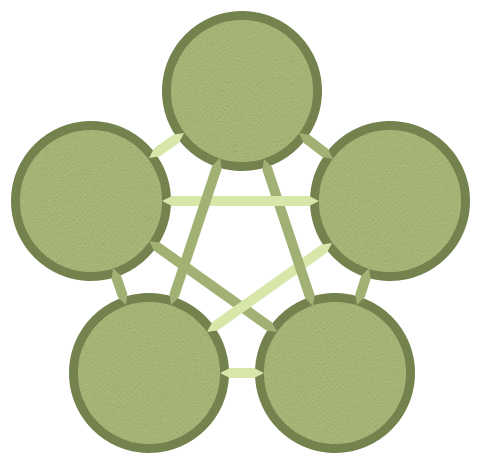
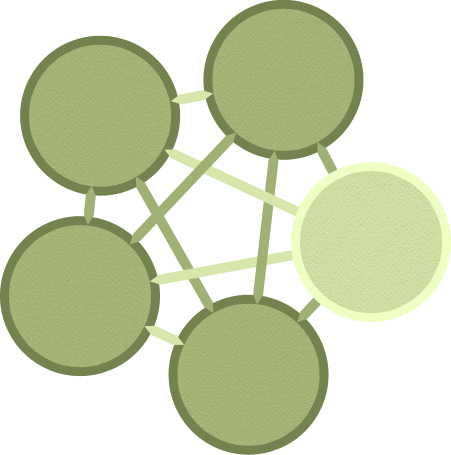
added changes of "star 15 degrees rotate",  added animation of homepage up to step 14

diff --git a/wp-content/themes/nebel.tv/style.css b/wp-content/themes/nebel.tv/style.css
@@ -3319,17 +3319,40 @@ footer.entry-meta {
 }
 
 .homepage-figure {
-    background: url('images/homepage-figure.png') no-repeat scroll -10px top;
+    /*background: url('images/homepage-figure.png') no-repeat scroll left top;*/
     position: relative;
     float: left;
     width: 481px;
     height: 464px;
 }
+.phase {
+    position: absolute;
+    left: 0;
+    top: 0;
+    height: 100%;
+    width: 100%;
+}
+
+.homepage-figure .phase-1 {
+    background: url('images/homepage-figure1.png') no-repeat scroll left top;
+}
+.homepage-figure .phase-2 {
+    background: url('images/homepage-figure2.png') no-repeat scroll left top;
+}
+.homepage-figure .phase-3 {
+    background: url('images/homepage-figure3.png') no-repeat scroll left top;
+}
+.homepage-figure .phase-4 {
+    background: url('images/homepage-figure4.png') no-repeat scroll left top;
+}
+.homepage-figure .phase-5 {
+    background: url('images/homepage-figure5.png') no-repeat scroll left top;
+}
 
 .homepage-figure .item {
     position: absolute;
-    width: 182px;
-    height: 182px;
+    width: 160px;
+    height: 160px;
     background: url('images/homepage-item.png') no-repeat scroll left top;
     top: 1000px;
 }
@@ -3339,23 +3362,23 @@ footer.entry-meta {
     background: url('images/homepage-item-hover.png') no-repeat scroll left top;
 }
 .homepage-figure .phone {
-    left: 141px;
+    left: 203px;
 }
 .homepage-figure .tablet {
-    /*top: 110px;*/
-    left: -10px;
+    /*top: 36px;*/
+    left: 20px;
 }
 .homepage-figure .tv {
-    /*top: 110px;*/
-    right: 10px;
+    /*top: 162px;*/
+    right: 30px;
 }
 .homepage-figure .usb {
-    bottom: 0;
-    right: 65px;
+    /*top: 295px;*/
+    right: 153px;
 }
 .homepage-figure .device {
-    bottom: 0;
-    left: 48px;
+    /*top: 216px;*/
+    left: 0;
 }
 .homepage-figure .item a {
     display: block;
@@ -3363,7 +3386,7 @@ footer.entry-meta {
     height: 100%;
 }
 .homepage-figure .phone a {
-    background: url('images/phone-small.png') no-repeat scroll 80% 50%;
+    background: url('images/phone-small.png') no-repeat scroll -10% 50%;
 }
 .homepage-figure .tablet a {
     background: url('images/tablet-small.png') no-repeat scroll 50%;

diff --git a/wp-content/themes/nebel.tv/js/functions.js b/wp-content/themes/nebel.tv/js/functions.js
@@ -138,16 +138,16 @@
                 $('.first-letter:eq(0)').next().animate({opacity: 1}, 500, next);
             },
             function() {
-                $('.homepage-figure .tablet').animate({top: '110px', opacity: 1}, 1000);
-                $('.homepage-figure .device').animate({top: '283px', opacity: 1}, 1000);
+                $('.homepage-figure .tablet').animate({top: '36px', opacity: 1}, 1000);
+                $('.homepage-figure .device').animate({top: '216px', opacity: 1}, 1000);
                 $('.first-letter:eq(1)').removeClass('hidden', {duration: 1000, complete: next});
             },
             function() {
                 $('.first-letter:eq(1)').next().removeClass('hidden', 1000, next);
             },
             function() {
-                $('.homepage-figure .usb').animate({top: '283px', opacity: 1}, 1000);
-                $('.homepage-figure .tv').animate({top: '110px', opacity: 1}, 1000);
+                $('.homepage-figure .usb').animate({top: '295px', opacity: 1}, 1000);
+                $('.homepage-figure .tv').animate({top: '162px', opacity: 1}, 1000);
                 $('.first-letter:eq(2)').removeClass('hidden', {duration: 1000, complete: next});
             },
             function() {
@@ -155,7 +155,22 @@
             },
             function() {
                 $('.try-it-now').removeClass('hidden', 1000, next);
-            }
+            },
+            function() {
+                $('.homepage-figure .phase-1').removeClass('hidden', { duration: 300, complete: next });
+            },
+            function() {
+                $('.homepage-figure .phase-2').removeClass('hidden', { duration: 300, complete: next });
+            },
+            function() {
+                $('.homepage-figure .phase-3').removeClass('hidden', { duration: 300, complete: next });
+            },
+            function() {
+                $('.homepage-figure .phase-4').removeClass('hidden', { duration: 300, complete: next });
+            },
+            function() {
+                $('.homepage-figure .phase-5').removeClass('hidden', { duration: 300, complete: next });
+            },
 
         ];
         next();

diff --git a/wp-content/themes/nebel.tv/homepage.php b/wp-content/themes/nebel.tv/homepage.php
@@ -26,6 +26,11 @@ get_header(); ?>
 
 					<div class="entry-content">
                         <div class="homepage-figure none">
+                            <div class="phase-1 phase hidden"></div>
+                            <div class="phase-2 phase hidden"></div>
+                            <div class="phase-3 phase hidden"></div>
+                            <div class="phase-4 phase hidden"></div>
+                            <div class="phase-5 phase hidden"></div>
                             <div class="item phone hidden"><a data-target="phone" href="#"></a></div>
                             <div class="item tablet hidden"><a data-target="tablet" href="#"></a></div>
                             <div class="item device hidden"><a data-target="device" href="#"></a></div>
